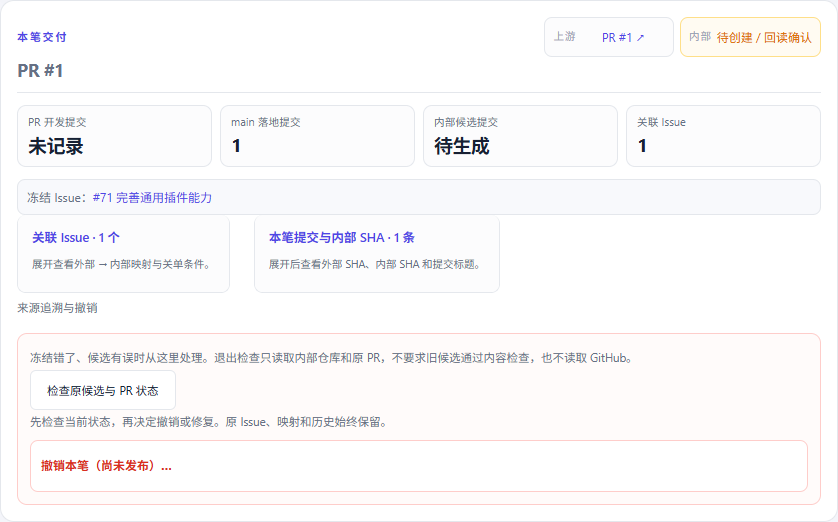
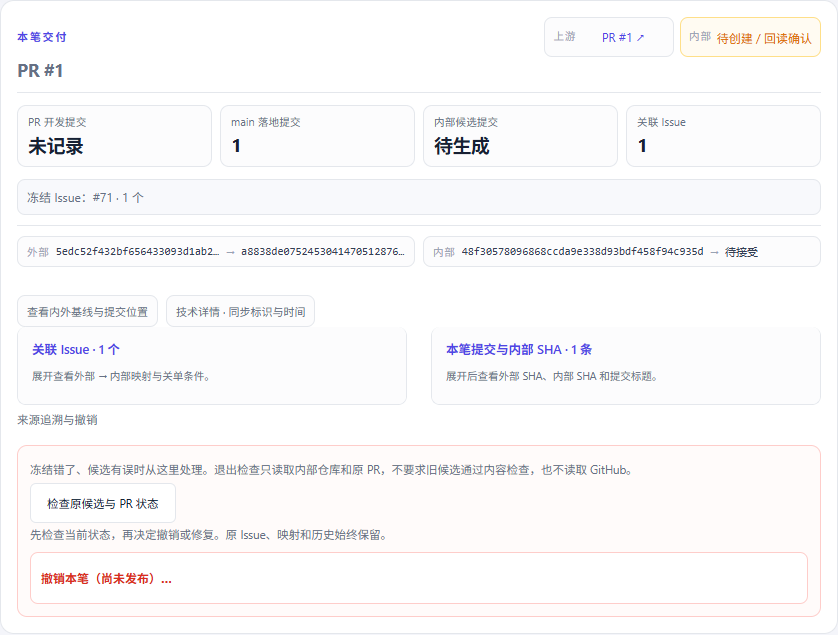
fix(repo-sync): make failure steps reachable and consolidate PR details
Clicking a stage or substep now opens the matching stage panel and scrolls it into view, with scroll margin under the sticky header. Move the bulk expand controls from the PR detail block into the flow rail. Merge baseline and technical disclosures into the PR delivery card and restructure expanded Issue, commit, baseline and technical rows. Add real error-state before/after evidence.

diff --git a/docs/design/repo-sync-redesign/implementation-compare.html b/docs/design/repo-sync-redesign/implementation-compare.html
@@ -106,7 +106,21 @@
     <section class="panel"><div class="ph"><b>基线展开 · 优化后</b><span class="badge after">AFTER</span></div><img src="shots/impl-after-expanded-baseline.png" alt=""></section>
   </div>
 
-  <h2>7 · 整页效果</h2>
+  <h2>7 · 异常阶段：点击流程步骤要能看到具体报错</h2>
+  <div class="pair small">
+    <section class="panel"><div class="ph"><b>异常态 · 优化前</b><span class="badge before">BEFORE</span></div><img src="shots/impl-before-error-top.png" alt=""></section>
+    <section class="panel"><div class="ph"><b>异常态 · 优化后</b><span class="badge after">AFTER</span></div><img src="shots/impl-after-error-top.png" alt=""></section>
+  </div>
+  <div class="notes" style="margin-top:10px">
+    <div class="note"><b>点击阶段</b><ul><li>优化前点击「准备交付」只展开 DOM，页面滚动位置仍是 0，看不到下面的报错</li><li>优化后点击阶段会自动展开并滚动到该阶段详情，顶部留 72px 给 sticky header</li><li>失败阶段、错误卡、恢复动作在同一屏内读到</li></ul></div>
+    <div class="note"><b>操作区</b><ul><li>右侧 dock 先给错误摘要与恢复入口</li><li>流程 rail 顶部提供「展开全部阶段 / 全部收起」，不再放在 PR 详情下方</li><li>详情块展开后仍能看到阶段标题与错误上下文</li></ul></div>
+  </div>
+  <div class="pair small" style="margin-top:10px">
+    <section class="panel"><div class="ph"><b>点击「准备交付」· 优化前</b><span class="badge before">BEFORE · 无滚动</span></div><img src="shots/impl-before-error-click.png" alt=""></section>
+    <section class="panel"><div class="ph"><b>点击「准备交付」· 优化后</b><span class="badge after">AFTER · 定位报错</span></div><img src="shots/impl-after-error-click.png" alt=""></section>
+  </div>
+
+  <h2>8 · 整页效果</h2>
   <div class="pair full">
     <section class="panel"><div class="ph"><b>优化前整页</b><span class="badge before">BEFORE</span></div><img src="shots/impl-before-full.png" alt=""></section>
     <section class="panel"><div class="ph"><b>优化后整页</b><span class="badge after">AFTER</span></div><img src="shots/impl-after-full.png" alt=""></section>

diff --git a/packages/repo-sync/web/v3-workbench.css b/packages/repo-sync/web/v3-workbench.css
@@ -1304,3 +1304,65 @@ textarea:focus {
     grid-template-columns: minmax(0, 1fr);
   }
 }
+
+/* PR metadata lives inside the delivery card, not in a second detail-head. */
+.v3-pr-meta {
+  margin-top: 10px;
+  padding-top: 10px;
+  border-top: 1px solid var(--v3-line);
+}
+.v3-pr-meta > .badge { margin-bottom: 6px; display: inline-block; }
+.v3-pr-disclosures {
+  display: flex;
+  flex-wrap: wrap;
+  gap: 8px;
+  align-items: center;
+  margin-top: 8px;
+}
+.v3-pr-disclosures > details {
+  min-width: 0;
+  border: 1px solid var(--v3-line);
+  border-radius: 8px;
+  background: #fcfcfd;
+}
+.v3-pr-disclosures > details > summary {
+  min-height: 30px;
+  padding: 5px 9px;
+  color: var(--v3-muted);
+  font-size: 11px;
+}
+.v3-pr-disclosures > details[open] {
+  flex: 1 1 100%;
+  padding: 8px 10px;
+  background: #fff;
+}
+.v3-pr-disclosures > details[open] > summary {
+  margin-bottom: 6px;
+  padding: 0 0 5px;
+  border-bottom: 1px solid var(--v3-line);
+  color: var(--v3-ink-2);
+}
+.v3-pr-disclosures > button {
+  margin-left: auto;
+  min-height: 30px;
+  padding: 4px 9px;
+  font-size: 11px;
+}
+.flow-canvas-heading {
+  display: flex;
+  flex-wrap: wrap;
+  align-items: baseline;
+  gap: 6px 10px;
+}
+.flow-canvas-actions {
+  display: flex;
+  gap: 6px;
+  margin-left: auto;
+}
+.flow-canvas-actions button {
+  min-height: 30px;
+  padding: 4px 9px;
+  font-size: 11px;
+}
+[data-stage] { scroll-margin-top: 72px; }
+.flow-canvas { scroll-margin-top: 72px; }
